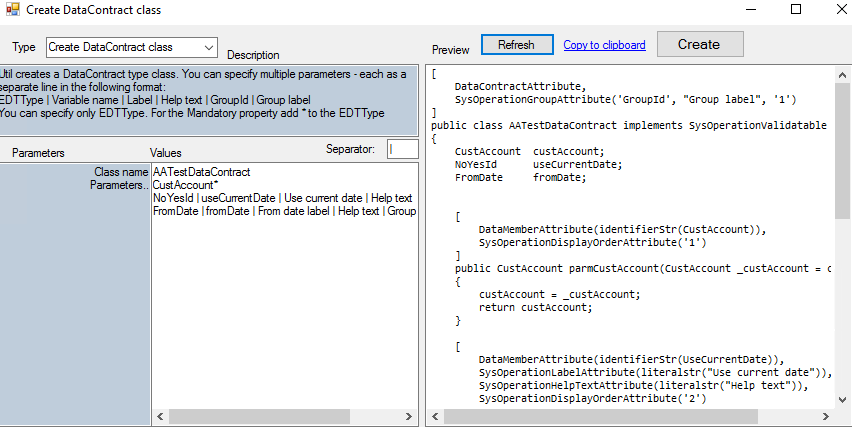
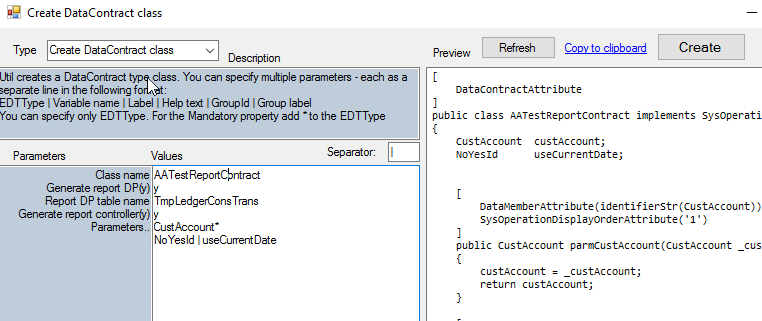
ReadMe

diff --git a/README.md b/README.md
@@ -141,6 +141,8 @@ Supports the following properties:
 * Groups
 * Label and Help text override
 
+Also can generate a code template for Data provider and [Controller](https://denistrunin.com/d365utils-generatedp/) 
+
 ![1547085113848](assets/DataContractBuilder.png)
 
 ## Create find method
